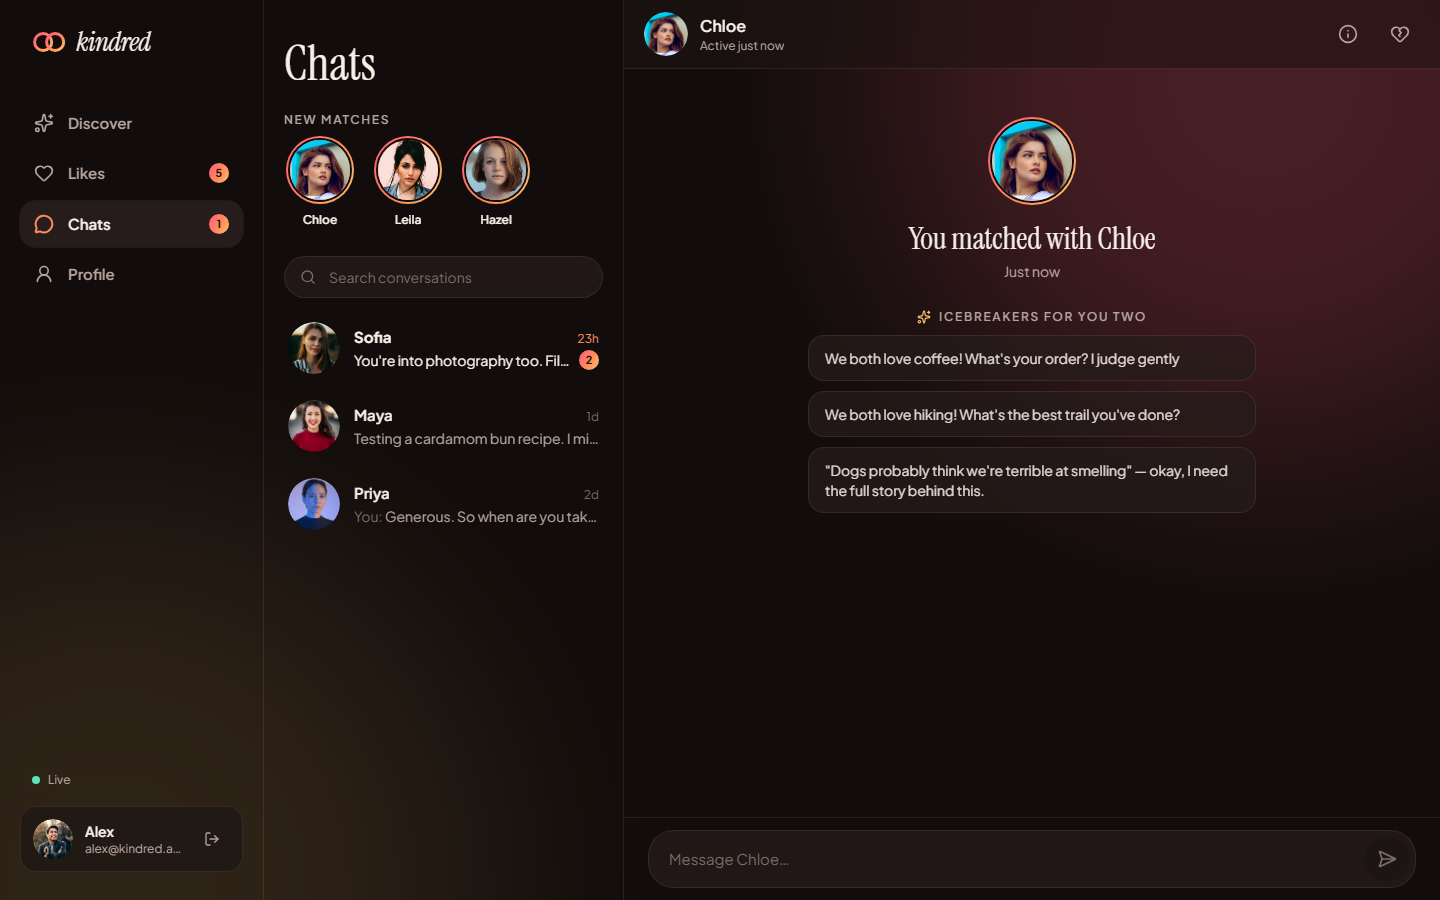
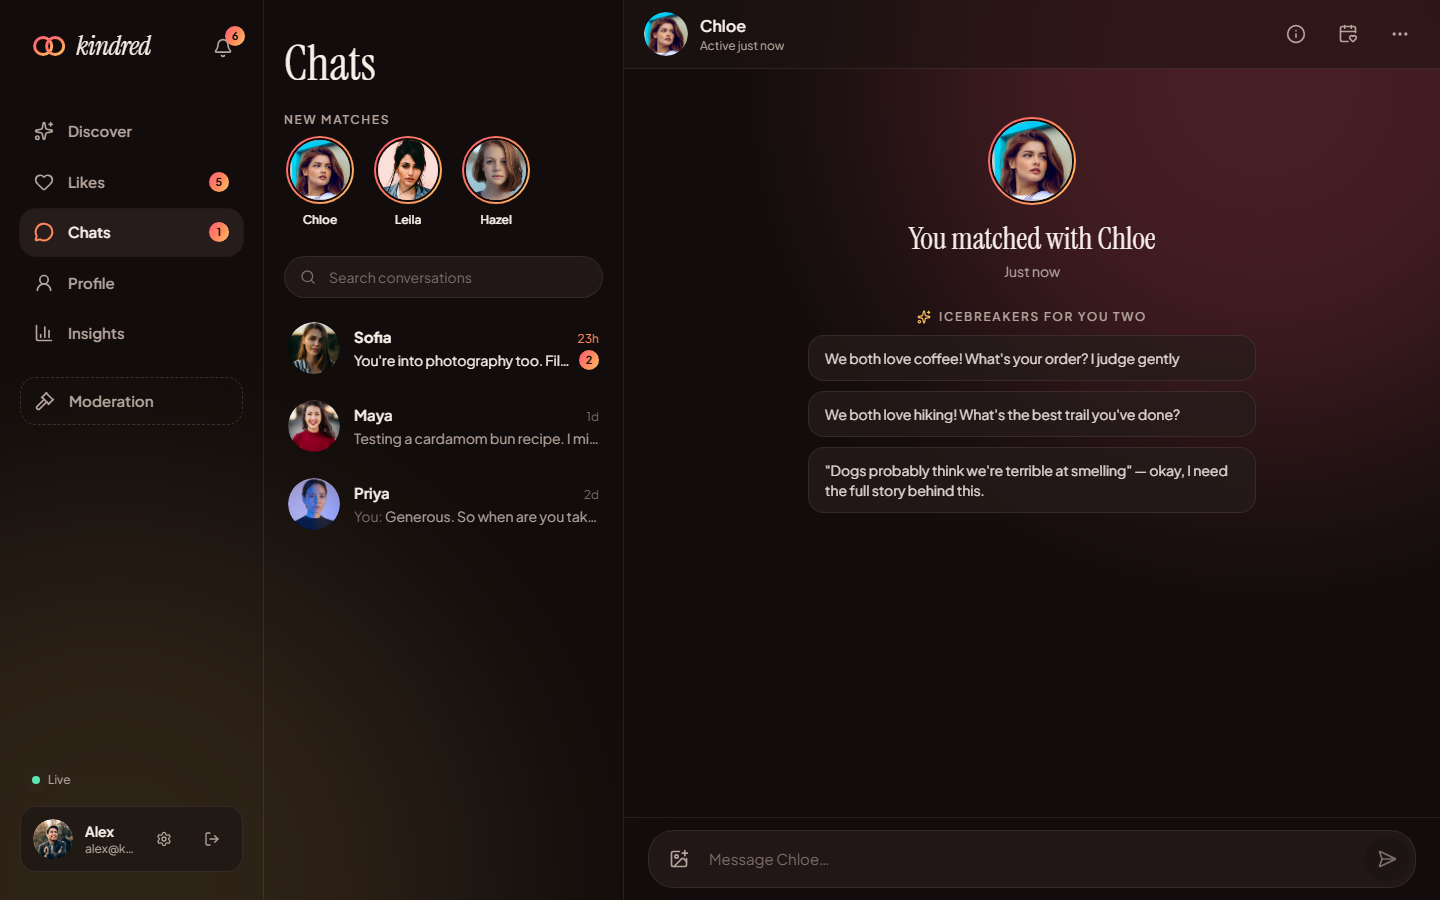
Update the README and screenshots for the new features
Documents top picks, distance, reactions, unsend, photo messages, date planning, notifications, insights, profile strength, settings, blocking, moderation, rate limits, the Redis broker, Postgres and the PWA, with new screenshots of top picks, date planning, insights, notifications and moderation. Updates the architecture diagram and module tables, the real-time protocol, configuration, test counts and CI jobs, and the list of what's next.

diff --git a/README.md b/README.md
@@ -4,11 +4,13 @@
 
 **A full-stack dating app with real-time chat, built with FastAPI and React.**
 
-Swipe through people who fit you, see *why* they fit, match, and chat live: typing indicators, read receipts and online presence over WebSockets.
+Swipe through people who fit you, see *why* they fit, match, chat live and plan the first date: typing indicators, read receipts, reactions and presence over WebSockets.
 
 ![Python](https://img.shields.io/badge/Python-3.12-3776AB?logo=python&logoColor=white)
 ![FastAPI](https://img.shields.io/badge/FastAPI-async-009688?logo=fastapi&logoColor=white)
-![SQLAlchemy](https://img.shields.io/badge/SQLAlchemy-2.0_async-D71F00)
+![SQLAlchemy](https://img.shields.io/badge/SQLAlchemy-2_async-D71F00)
+![Postgres](https://img.shields.io/badge/Postgres-17-4169E1?logo=postgresql&logoColor=white)
+![Redis](https://img.shields.io/badge/Redis-pub%2Fsub-DC382D?logo=redis&logoColor=white)
 ![React](https://img.shields.io/badge/React-19-61DAFB?logo=react&logoColor=black)
 ![TypeScript](https://img.shields.io/badge/TypeScript-strict-3178C6?logo=typescript&logoColor=white)
 ![Tailwind CSS](https://img.shields.io/badge/Tailwind-v4-38BDF8?logo=tailwindcss&logoColor=white)
@@ -19,23 +21,46 @@ Swipe through people who fit you, see *why* they fit, match, and chat live: typi
 
 ## Highlights
 
+**Meeting people**
 - **Swipe deck** with drag gestures, keyboard shortcuts (← → ↑ ⌫), like / pass / super like and undo.
-- **Transparent matching.** Every card shows a 0–100 compatibility score and highlights shared interests. Discover only shows people whose gender *and* age preferences match yours, and yours theirs.
-- **Live chat over WebSockets**: instant delivery, typing indicators, read receipts, online presence, optimistic sending with retry, an offline queue and auto-reconnect with exponential backoff.
-- **"It's a match!"** celebration, pushed to both people in real time.
-- **Icebreakers** generated from your shared interests and the other person's prompts.
-- **Likes you** page: like someone back for an instant match.
-- **Profile editor** with photo upload (validated, EXIF-rotated, resized and converted to WebP with Pillow), interests, prompts and preferences.
-- **A demo that feels alive.** About 45 seeded personas like you back and reply in chat with context-aware messages, so a reviewer can try the full flow alone.
-- Responsive from 360px phones up to wide desktops, with a dark design system built on Instrument Serif and Plus Jakarta Sans.
+- **Transparent matching.** Every card shows a 0–100 compatibility score and the interests you share. Discover only shows people whose gender, age *and distance* preferences fit yours, and yours theirs.
+- **Distance** from a built-in list of places or the browser's location. Others only ever see a rounded distance, never coordinates.
+- **Daily top picks:** four standouts from your strongest fits, with a reason for each, refreshed at midnight.
+- **Likes you** page and an **"It's a match!"** celebration, pushed to both people in real time.
+
+**Talking**
+- **Live chat over WebSockets**: instant delivery, typing indicators, read receipts, online presence, optimistic sending with retry, an offline queue and auto-reconnect with backoff.
+- **Reactions** (double-click to ❤), **unsend** within 15 minutes, **photo messages** with a lightbox, and **icebreakers** from shared interests.
+- **Date planning** inside the chat: propose a place and time from suggested ideas, accept or decline live, and add it to your calendar (`.ics`).
+- **Notifications** for likes, matches and missed messages, a bell with a live feed, unread counts in the tab title and opt-in desktop notifications.
+
+**Your profile**
+- **Profile editor** with photo upload (validated, EXIF-rotated, resized and converted to WebP with Pillow), interests, prompts and preferences, plus a **profile strength** meter with tips.
+- **Insights:** likes, match rate, reply rate and reply speed, day-by-day charts and what the people who like you are into.
+- **Settings:** pause your profile, change your password (which signs out your other devices), sign out everywhere, desktop notifications, blocked people and account deletion.
+
+**Safety and operations**
+- **Block and report** from any chat. A block works in both directions and ends the match live.
+- **Moderation queue** for admins: review reports, dismiss them, or ban (which revokes tokens and closes sockets immediately).
+- **Rate limits** on sign-in, sign-up, swipes, messages, uploads and reports.
+- **Installable PWA** with an offline app shell.
+- **A demo that feels alive.** About 45 seeded personas like you back, reply in context and say yes to dates, so a reviewer can try every flow alone.
 
 | Match | Live chat | Likes you |
 | --- | --- | --- |
 | <img src="docs/screenshots/match.png" alt="It's a match screen" /> | <img src="docs/screenshots/chat-typing.png" alt="Chat with typing indicator" /> | <img src="docs/screenshots/likes.png" alt="Likes you grid" /> |
 
+| Top picks | Planning a date | It's a date |
+| --- | --- | --- |
+| <img src="docs/screenshots/top-picks.png" alt="Today's top picks with reasons" /> | <img src="docs/screenshots/date-plan.png" alt="Plan a date dialog with ideas" /> | <img src="docs/screenshots/date.png" alt="Accepted date pinned in the chat" /> |
+
+| Insights | Notifications | Moderation |
+| --- | --- | --- |
+| <img src="docs/screenshots/insights.png" alt="Insights with daily charts" /> | <img src="docs/screenshots/notifications.png" alt="Notification bell panel" /> | <img src="docs/screenshots/moderation.png" alt="Moderation queue" /> |
+
 | Landing | Icebreakers | Profile |
 | --- | --- | --- |
-| <img src="docs/screenshots/landing.png" alt="Landing page" /> | <img src="docs/screenshots/icebreakers.png" alt="Icebreakers for a new match" /> | <img src="docs/screenshots/profile.png" alt="Profile editor" /> |
+| <img src="docs/screenshots/landing.png" alt="Landing page" /> | <img src="docs/screenshots/icebreakers.png" alt="Icebreakers for a new match" /> | <img src="docs/screenshots/profile.png" alt="Profile editor with strength meter" /> |
 
 <p align="center">
   <img src="docs/screenshots/mobile-discover.png" alt="Mobile discover" width="240" />
@@ -63,14 +88,14 @@ npm install
 npm run dev
 ```
 
-The database is created and seeded on first start. Open http://localhost:5173 and click **Try the live demo**.
+The database is migrated and seeded on first start. Open http://localhost:5173 and click **Try the live demo**.
 
 | Account | Email | Password |
 | --- | --- | --- |
-| Demo user | `alex@kindred.app` | `kindred123` |
+| Demo user (also a moderator) | `alex@kindred.app` | `kindred123` |
 | Second real user | `maya@kindred.app` | `kindred123` |
 
-**See two people chat live:** sign in as Alex in one window and as Maya in a private window. They're already matched, so open the conversation on both sides and watch messages, typing and read receipts update instantly. To start over, run `python -m app.seed --reset`.
+**See two people chat live:** sign in as Alex in one window and as Maya in a private window. They're already matched, so open the conversation on both sides and watch messages, typing, reactions and read receipts update instantly. To start over, run `python -m app.seed --reset`.
 
 ### Or with Docker
 
@@ -79,7 +104,7 @@ docker compose up --build
 # open http://localhost:8080
 ```
 
-Nginx serves the built React app and proxies `/api`, `/media` and the `/ws` WebSocket to the API container. SQLite and uploaded photos live in a named volume.
+Compose runs the API on **Postgres 17** with **Redis** as the real-time broker, behind nginx, which serves the built React app and proxies `/api`, `/media` and the `/ws` WebSocket. Uploaded photos live in a named volume.
 
 ## Architecture
 
@@ -89,13 +114,15 @@ flowchart LR
         UI[React 19 + Router] --> RQ[TanStack Query cache]
         UI --> WS[RealtimeClient<br/>auto-reconnect, queue]
         WS -- events --> RQ
+        SW[Service worker<br/>offline shell]
     end
     RQ -- REST /api --> API
     WS -- WebSocket /ws --> API
-    subgraph FastAPI
-        API[Routers] --> SVC[Services<br/>matching · chat · personas]
-        SVC --> DB[(SQLAlchemy 2.0 async<br/>SQLite / Postgres)]
-        SVC --> HUB[Hub + ConnectionManager<br/>per-user socket fan-out]
+    subgraph FastAPI workers
+        API[Routers + rate limits] --> SVC[Services<br/>discovery · chat · dates · notifications · insights · safety]
+        SVC --> DB[(SQLAlchemy 2 async<br/>Postgres / SQLite<br/>Alembic migrations)]
+        SVC --> HUB[ConnectionManager<br/>per-user sockets]
+        HUB <--> BR[Broker<br/>local or Redis pub/sub]
         HUB --> WS
     end
 ```
@@ -104,25 +131,28 @@ flowchart LR
 
 | Path | Responsibility |
 | --- | --- |
-| `main.py` | App factory, lifespan (create tables, seed, shut down background tasks), CORS, static media |
-| `models.py` | `User`, `Swipe`, `Match`, `Message`. Constraints: one swipe per pair, ordered unique match pair, cascading deletes |
-| `schemas.py` | Pydantic v2 models: validation (18+, known interests and prompts, age ranges) and response shapes |
-| `routers/` | `auth`, `users` (profile, photos, meta), `discover` (deck, swipes, undo, likes), `matches` (list, history, read, unmatch, icebreakers), `ws` |
-| `services/matching.py` | Age maths, mutual-preference filter and the compatibility score |
-| `services/chat.py` | Sending, read receipts, match creation and persona auto-replies, shared by REST and WebSocket |
-| `realtime.py` | `ConnectionManager` (multi-tab, per-user fan-out) and `Hub` (background task registry) |
-| `db.py` | Async engine, `UTCDateTime` type so SQLite hands back time-zone-aware datetimes |
+| `main.py` | App factory, lifespan (migrate, seed, start the broker, shut down background tasks), CORS, static media |
+| `models.py` | Users, swipes, matches, messages, reactions, blocks, reports, notifications and date proposals, with the constraints that keep them honest |
+| `migrations/` | Alembic revisions, applied on startup. A test fails if the models drift from them |
+| `schemas.py` | Pydantic v2 models: validation (18+, known interests and prompts, ranges, aware datetimes) and response shapes |
+| `routers/` | `auth`, `users`, `account`, `discover`, `matches`, `dates`, `notifications`, `safety`, `admin`, `ws` |
+| `services/discovery.py` | Who can see whom (mutual gender, age and distance fit, blocks, pauses, bans) and the daily top picks |
+| `services/matching.py` | Age maths, the compatibility score, haversine distance and the SQL bounding box |
+| `services/chat.py` | Sending, reactions, unsend, read receipts and persona auto-replies, shared by REST and WebSocket |
+| `services/dates.py` · `notifications.py` · `insights.py` · `profile_strength.py` · `safety.py` · `images.py` | One feature each |
+| `realtime.py` · `broker.py` | `ConnectionManager` (multi-tab, per-user fan-out) behind a broker: in-process by default, Redis pub/sub across workers |
+| `limits.py` · `ratelimit.py` | Sliding-window limiter and the FastAPI dependencies that apply it |
 
 **Frontend (`frontend/src`)**
 
 | Path | Responsibility |
 | --- | --- |
 | `lib/realtime.ts` | Framework-free WebSocket client: backoff with jitter, keep-alive pings, offline queue, 4401 sign-out |
-| `realtime/RealtimeProvider.tsx` | Folds server events into the React Query cache, typing timeouts and toasts |
-| `lib/cache.ts` | Pure, unit-tested cache reducers (`upsertMessage`, `applyReadReceipt`, …) |
-| `pages/` | Landing, Login/Signup (3-step onboarding), Discover, Likes, Chats + Chat, Profile |
-| `components/` | `SwipeCard` (motion drag physics), `MatchCelebration`, `ProfileDetails`, form controls, app shell |
-| `store/` | Zustand: persisted auth, live presence/typing state, toasts |
+| `realtime/RealtimeProvider.tsx` | Folds server events into the React Query cache; typing timeouts, toasts and desktop notifications |
+| `lib/cache.ts` · `notifications.ts` · `dates.ts` | Pure, unit-tested reducers (`upsertMessage`, `applyReaction`, `applyNotification`, `upsertDate`, …) |
+| `pages/` | Landing, Login/Signup, Discover, Likes, Chats + Chat, Profile, Insights, Settings, Moderation |
+| `components/` | `SwipeCard`, `TopPicks`, `DatePlanner`, `Reactions`, `MessageActions`, `Safety`, `Notifications`, `ProfileStrength`, … |
+| `store/` | Zustand: persisted auth and preferences, live presence/typing state, toasts |
 
 ### Real-time protocol
 
@@ -131,16 +161,18 @@ One socket per tab at `/ws?token=<JWT>` (browsers can't set headers on WebSocket
 | Direction | Event | Payload |
 | --- | --- | --- |
 | client → server | `message.send` | `match_id`, `body`, `client_id` (echoed back to reconcile the optimistic message) |
-| | `typing` | `match_id`, `is_typing` |
-| | `read` | `match_id` |
+| | `typing` · `read` | `match_id` (+ `is_typing`) |
+| | `react` | `match_id`, `message_id`, `emoji` (or `null` to remove) |
 | | `ping` | keeps proxies from closing idle sockets |
 | server → client | `hello` | which of your matches are online right now |
-| | `message.new` | the stored message, sent to both participants |
-| | `typing` · `read` · `presence` | live indicators |
-| | `match.new` · `match.removed` | pushed when a like becomes mutual, or on unmatch |
-| | `error` | validation problems; the socket stays open |
+| | `message.new` · `message.deleted` | the stored message, or which one was unsent |
+| | `typing` · `read` · `reaction` · `presence` | live indicators |
+| | `match.new` · `match.removed` | pushed when a like becomes mutual, or on unmatch and block |
+| | `date.updated` | a date proposal was made, answered or called off |
+| | `notification.new` | a like, match or missed message for the bell |
+| | `error` | validation problems or rate limits; the socket stays open |
 
-Bad tokens are rejected with close code `4401`, which makes the client sign out instead of retrying. `ConnectionManager` is in-process; to run several API workers, publish events through Redis pub/sub instead (the `send` interface stays the same).
+Bad, revoked or banned tokens are closed with code `4401`, which makes the client sign out instead of retrying. With `KINDRED_REDIS_URL` set, every event goes through Redis pub/sub, so a message sent through one API worker reaches sockets held by another. Presence is still tracked per process.
 
 ### Compatibility score
 
@@ -152,16 +184,19 @@ A deliberately simple, explainable formula (`services/matching.py`):
 | Age closeness | 25 | full marks within 2 years, fading to 0 at a 12-year gap |
 | Recent activity | 20 | full marks if active today, fading over two weeks |
 
-The SQL query narrows candidates on indexed columns (not swiped, not rejected by them, gender, birthdate range). The JSON "interested in" check and scoring run in Python, so the same code works on SQLite and Postgres.
+The SQL query narrows candidates on indexed columns (not swiped, not rejected by them, not blocked, gender, birthdate range, a latitude/longitude bounding box). The JSON "interested in" check, exact distance and scoring run in Python, so the same code works on SQLite and Postgres.
 
-## Tests
+## Tests and CI
 
 ```bash
-cd backend && pytest            # 36 tests: auth, profile, photos, discover rules, swipes, chat, WebSocket flows, personas, seed
-cd frontend && npm test         # 27 tests: realtime client (fake socket and timers), cache reducers, time helpers, form components
+cd backend && pytest            # 105 tests: auth, account, discover, distance, chat, reactions, photos, dates,
+                                #   notifications, insights, safety, moderation, rate limits, broker, migrations, seed
+cd frontend && npm run lint && npm test   # 82 tests: realtime client, cache reducers, components and pages
 ```
 
-The WebSocket tests drive two real connections through the app: presence, typing, delivery, the `client_id` echo, read receipts, live `match.new` pushes, and a persona reading, typing and replying. CI (`.github/workflows/ci.yml`) runs ruff, pytest, the TypeScript check, Vitest and a production build on every push.
+The WebSocket tests drive real connections through the app: presence, typing, delivery, the `client_id` echo, read receipts, reactions, live `match.new` pushes, personas replying and accepting dates, and bans closing sockets. The broker tests run two workers against one fake Redis. A migration test upgrades a database that holds a conversation and checks every row survives.
+
+CI (`.github/workflows/ci.yml`) runs ruff and pytest on SQLite, the whole backend suite again on a **Postgres 17** service, and ESLint, the TypeScript check, Vitest and a production build for the web app.
 
 ## Configuration
 
@@ -170,18 +205,22 @@ All settings are environment variables with a `KINDRED_` prefix (see `backend/.e
 | Variable | Default | Notes |
 | --- | --- | --- |
 | `KINDRED_SECRET_KEY` | dev value | **Set this in production** (JWT signing key) |
-| `KINDRED_DATABASE_URL` | `sqlite+aiosqlite:///backend/kindred.db` | Any async SQLAlchemy URL, e.g. `postgresql+asyncpg://…` (after `pip install asyncpg`) |
-| `KINDRED_DEMO_MODE` | `true` | Personas like back and reply |
+| `KINDRED_DATABASE_URL` | `sqlite+aiosqlite:///backend/kindred.db` | Any async SQLAlchemy URL, e.g. `postgresql+asyncpg://…` (`pip install ".[postgres]"`) |
+| `KINDRED_REDIS_URL` | unset | Fan events out through Redis to run several workers (`pip install ".[redis]"`) |
+| `KINDRED_RATE_LIMIT_ENABLED` | `true` | Per-process sliding-window limits |
+| `KINDRED_DEMO_MODE` | `true` | Personas like back, reply and accept dates |
 | `KINDRED_SEED_ON_STARTUP` | `true` | Seed an empty database on boot |
 | `KINDRED_CORS_ORIGINS` | `["http://localhost:5173"]` | JSON list |
 
+Schema changes go through Alembic: edit `models.py`, then run `alembic revision --autogenerate -m "what changed"` in `backend/` and review the generated file.
+
 ## What I'd add next
 
-- Alembic migrations and Postgres in Docker Compose
-- Redis pub/sub so the WebSocket layer scales across workers
-- Distance-based matching with PostGIS
-- Block and report, and moderation of uploaded photos
-- Push notifications for messages while the app is closed
+- Presence and rate-limit counters in Redis, so they're shared across workers too
+- Web Push, so notifications arrive while the app is closed
+- End-to-end tests with Playwright in CI
+- Automated screening of uploaded photos before they reach the moderation queue
+- Translations
 
 ## Credits
 
